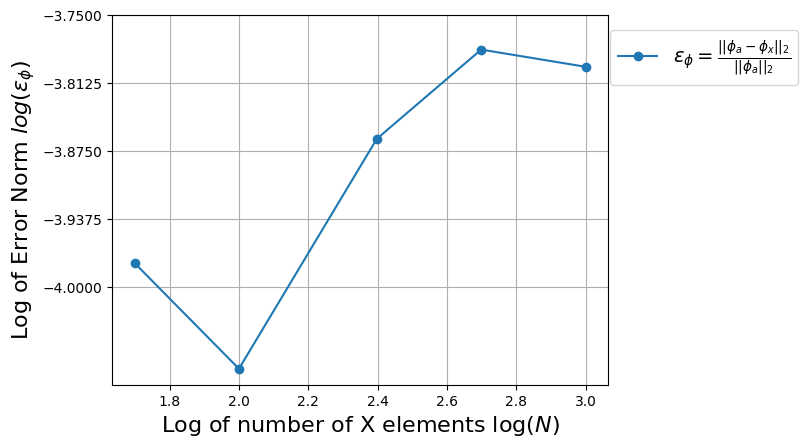
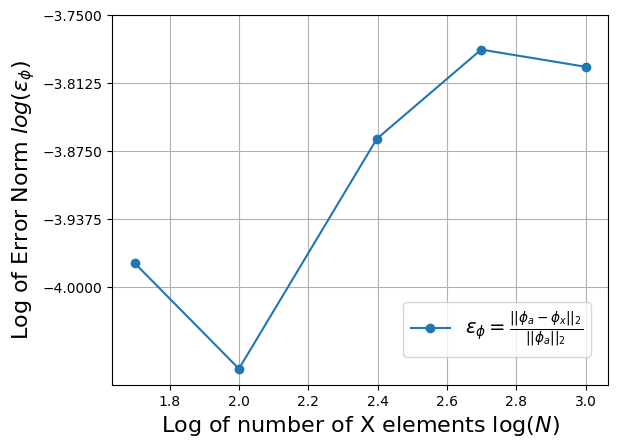
100 active batches most recent Cardinal outputs fixed some plotting issues

diff --git a/simulations/visualization/more_active_batches/viz.py b/simulations/visualization/more_active_batches/viz.py
@@ -90,12 +90,10 @@ dict_min = min(i for v in ratios_temp_num_to_analy.values() for i in v)
 dict_max = max(i for v in ratios_temp_num_to_analy.values() for i in v)
 # plt.yticks(np.linspace(dict_min,dict_max,8))
 plt.yticks([0.99994,0.99995,0.99996,0.99997,0.99998,0.99999,1,1.00001,1.00002])
-plt.gca().yaxis.tick_right()
-plt.gca().yaxis.set_major_formatter(mtick.FormatStrFormatter('%.1e'))
 plt.xlabel("X Coordinate [cm]",fontsize=16)
 plt.ylabel(r"Temperature C/E",fontsize=16)
 plt.gca().yaxis.tick_right()
-plt.gca().yaxis.set_major_formatter(mtick.FormatStrFormatter('%.6f'))
+plt.gca().yaxis.set_major_formatter(mtick.FormatStrFormatter('%.5f'))
 plt.yticks()
 # plt.title(f"Ratio Numerical to Analytical Temp All Meshes. 200 Picard Iterations")
 plt.legend(ncol=2)
@@ -106,12 +104,13 @@ plt.clf()
 # plot all flux C/E on one plot
 for n in n_elems:
     plt.plot(xx[n],ratios_flux_num_to_analy[n],label=f"{n} x-elem")
+plt.plot(xx[n],ones,'-k',label="exact")
 plt.xticks([-60,-40,-20,0,20,40,60])
 dict_min = min(i for v in ratios_flux_num_to_analy.values() for i in v)
 dict_max = max(i for v in ratios_flux_num_to_analy.values() for i in v)
-plt.yticks(np.linspace(dict_min,dict_max,8))
+plt.yticks(np.linspace(dict_min,dict_max,7))
 plt.gca().yaxis.tick_right()
-plt.gca().yaxis.set_major_formatter(mtick.FormatStrFormatter('%.1e'))
+plt.gca().yaxis.set_major_formatter(mtick.FormatStrFormatter('%.5f'))
 plt.xlabel("X Coordinate [cm]",fontsize=16)
 plt.ylabel(r"Flux C/E",fontsize=16)
 # plt.title("Ratio Numerical to Analytical Flux All Meshes. 200 Picard Iterations")
@@ -171,7 +170,7 @@ plt.ylabel(r"Log of Error Norm $log(\epsilon_{\phi})$",fontsize=16)
 # plt.title("Flux Error Norm vs Mesh Size \n 200 Picard Iterations with Relaxation")
 plt.yticks(np.linspace(-3.75,-4,5))
 plt.grid()
-plt.legend(bbox_to_anchor=[0.985,0.985],fontsize=14)
+plt.legend(bbox_to_anchor=[0.985,0.25],fontsize=14)
 plt.savefig("flux_error_norms.png",bbox_inches='tight')
 plt.clf()
 
